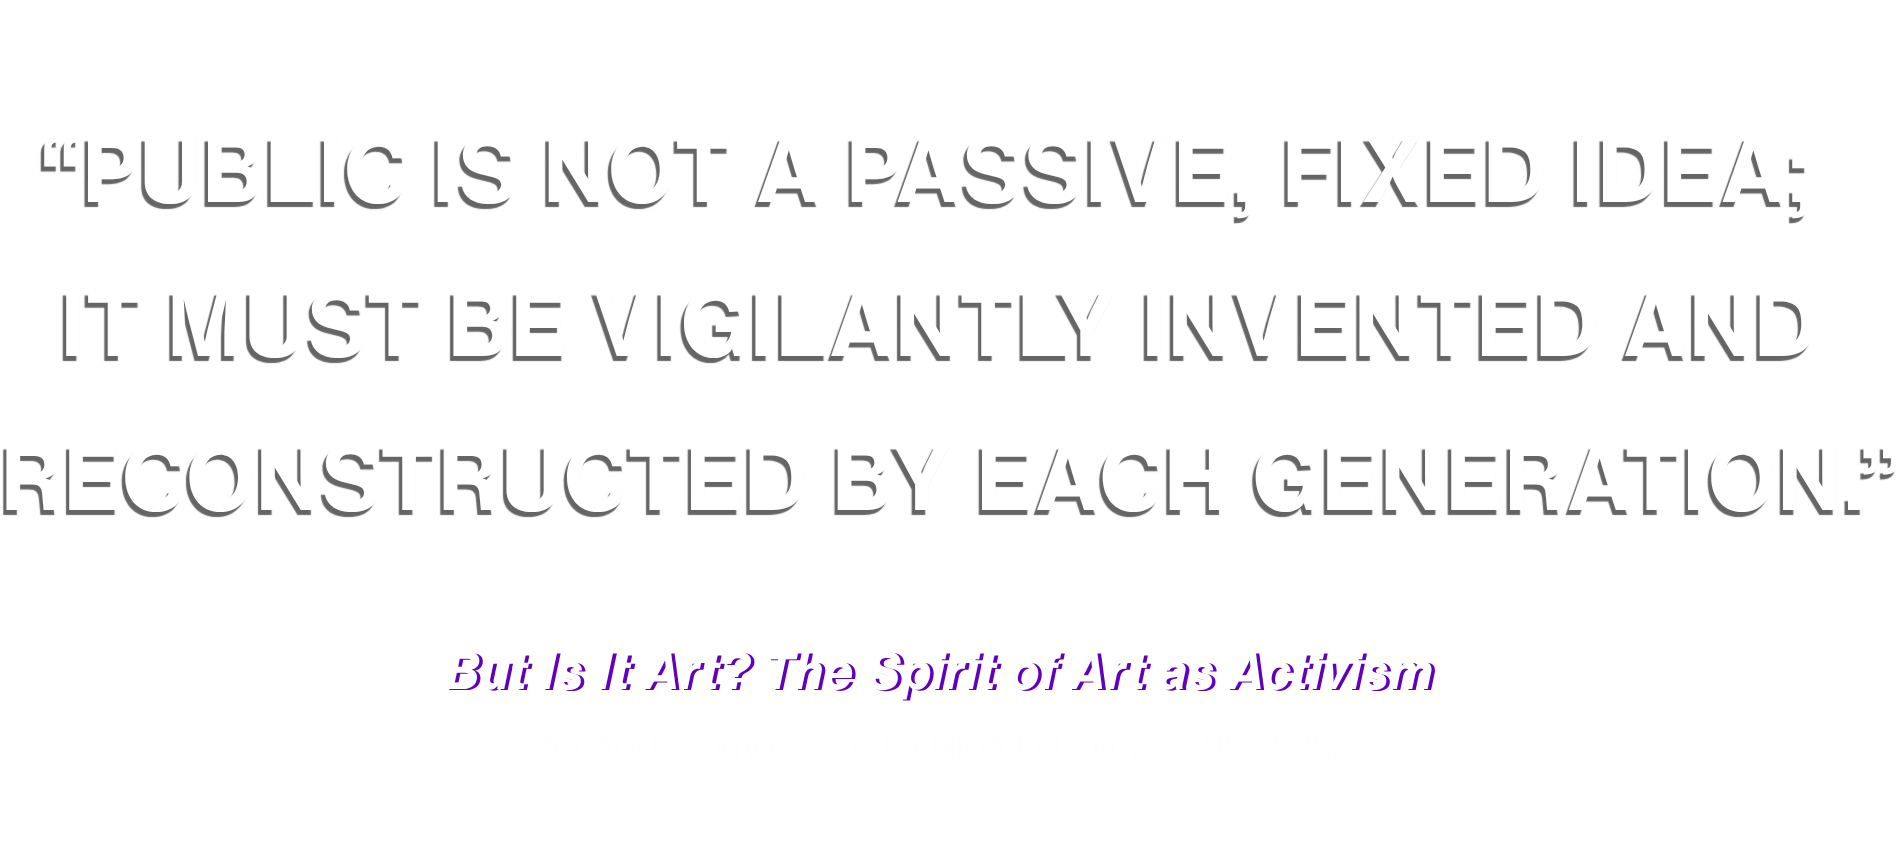
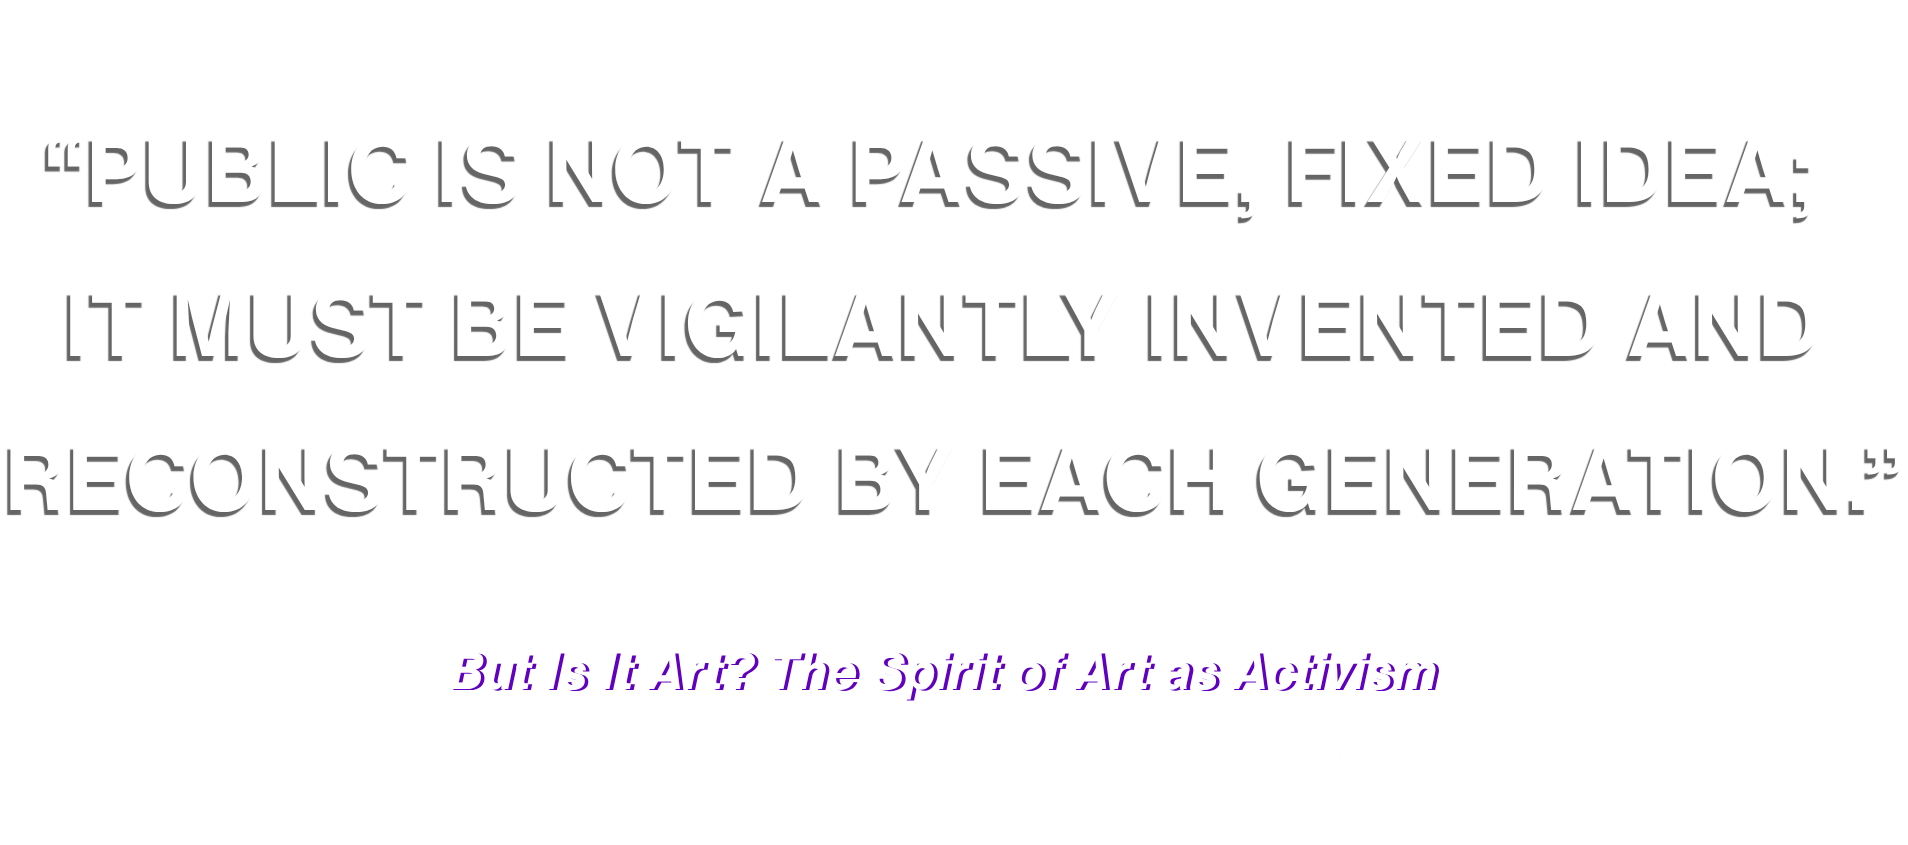
style(exhibition): tighten hero gap - shrink+left-align CTA art, right-align tight-cropped quote

diff --git a/src/styles/site.css b/src/styles/site.css
@@ -116,7 +116,7 @@ p, li, button, input, textarea, select {
 .exhibit-hero-split__right {
   display: flex;
   align-items: center;
-  justify-content: flex-start;
+  justify-content: flex-end;
 }
 .exhibit-founding-quote-art {
   display: block;
@@ -2532,11 +2532,12 @@ a:hover { color: var(--electric); }
 }
 .exhibit-cta-art {
   display: block;
-  width: min(100%, 320px);
+  width: min(100%, 250px);
   height: auto;
   object-fit: contain;
   background: transparent;
   margin-top: 64px;
+  margin-left: 0;
 }
 /* Glassmorphic chips on the teal/indigo blend — keep AA contrast. */
 .case-hero--mid .chip--glass {
@@ -2558,7 +2559,7 @@ a:hover { color: var(--electric); }
 .exhibit-hero-split__right {
   display: flex;
   align-items: center;
-  justify-content: flex-start;
+  justify-content: flex-end;
 }
 .exhibit-founding-quote-art {
   display: block;
@@ -2576,8 +2577,9 @@ a:hover { color: var(--electric); }
     justify-content: center;
   }
   .exhibit-cta-art {
-    width: min(100%, 300px);
+    width: min(100%, 230px);
     margin-top: 28px;
+    margin-left: 0;
   }
   .exhibit-hero-split__right {
     justify-content: center;

diff --git a/src/app/components/Exhibition.tsx b/src/app/components/Exhibition.tsx
@@ -310,7 +310,7 @@ export function Exhibition({ onSupport }: { onSupport: () => void }) {
             <div className="exhibit-hero-split__right">
                 <img
                   className="exhibit-founding-quote-art"
-                  src="/assets/Activist Art-Block.png"
+                  src="/assets/Tight-Quote.png"
                   alt="Public is not a passive, fixed idea; it must be vigilantly invented and reconstructed by each generation. But Is It Art? The Spirit of Art as Activism. Art anthology edited by Nina Felshin, p. 305 (1995)."
                   loading="lazy"
                 />